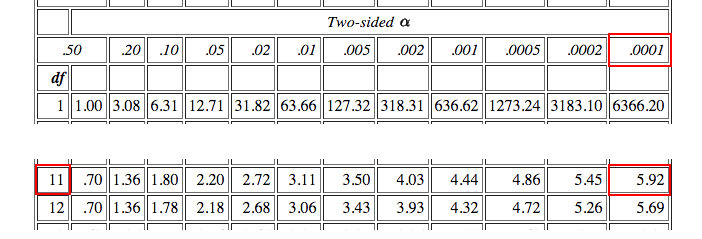
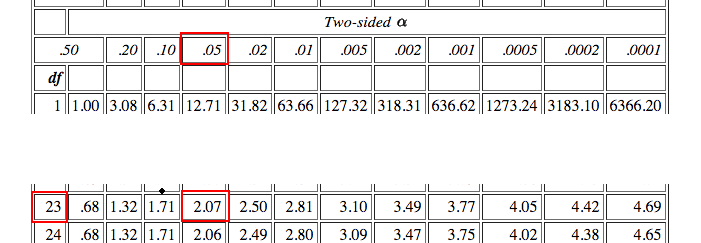
corrected statistics

Changed region(s): [[0.03, 0.0, 0.9586, 0.5272], [0.03, 0.6736, 0.9586, 0.9958]]

diff --git a/P1_stroop_effect_analysis.html b/P1_stroop_effect_analysis.html
@@ -201,11 +201,14 @@ div#notebook {
 There is no significant difference between the population mean of the time it takes to respond in the congruent words condition ($\mu_{c}$) as compared to the incongruent words condition ($\mu_{i}$). Differing times recorded in the sample populations are due to chance.</li>
 </ul>
 $$H_{0} : \mu_{c} = \mu_{i}$$<ul>
-<li><strong>($H_{1}$) - alternative Hypothesis:</strong>
-The population mean ($\mu_{c}$) of the time taken to correctly name the ink colors when the words match the ink colors is significantly shorter than the population mean ($\mu_{i}$) for the incongruent words condition.</li>
+<li><strong>($H_{1}$) - alternative Hypothesis 1:</strong>
+The population mean ($\mu_{c}$) of the time taken to correctly name the ink colors when the words match the ink colors is significantly <strong>shorter</strong> than the population mean ($\mu_{i}$) for the incongruent words condition.</li>
 </ul>
-$$H_{1} : \mu_{c} < \mu_{i}$$<p>Because I am interested to explore whether displaying color names that differ from their colors is related to a <strong>longer</strong> reaction time, I have chosen to use a <strong>directional</strong> alternative hypothesis.</p>
-
+$$H_{1} : \mu_{c} < \mu_{i}$$<ul>
+<li><strong>($H_{2}$) - alternative Hypothesis 2:</strong>
+The population mean ($\mu_{c}$) of the time taken to correctly name the ink colors when the words match the ink colors is significantly <strong>longer</strong> than the population mean ($\mu_{i}$) for the incongruent words condition.</li>
+</ul>
+$$H_{2} : \mu_{c} > \mu_{i}$$
 </div>
 </div>
 </div>
@@ -237,7 +240,7 @@ $$H_{1} : \mu_{c} < \mu_{i}$$<p>Because I am interested to explore whether displ
 </div>
 <div class="cell border-box-sizing code_cell rendered">
 <div class="input">
-<div class="prompt input_prompt">In&nbsp;[3]:</div>
+<div class="prompt input_prompt">In&nbsp;[2]:</div>
 <div class="inner_cell">
     <div class="input_area">
 <div class=" highlight hl-ipython2"><pre><span class="c"># importing the csv file into a pandas dataframe</span>
@@ -258,7 +261,7 @@ $$H_{1} : \mu_{c} < \mu_{i}$$<p>Because I am interested to explore whether displ
 <div class="output">
 
 
-<div class="output_area"><div class="prompt output_prompt">Out[3]:</div>
+<div class="output_area"><div class="prompt output_prompt">Out[2]:</div>
 
 <div class="output_html rendered_html output_subarea output_execute_result">
 <div style="max-height:1000px;max-width:1500px;overflow:auto;">
@@ -319,7 +322,7 @@ $$H_{1} : \mu_{c} < \mu_{i}$$<p>Because I am interested to explore whether displ
 </div>
 <div class="cell border-box-sizing code_cell rendered">
 <div class="input">
-<div class="prompt input_prompt">In&nbsp;[4]:</div>
+<div class="prompt input_prompt">In&nbsp;[3]:</div>
 <div class="inner_cell">
     <div class="input_area">
 <div class=" highlight hl-ipython2"><pre><span class="n">stroop_stats</span> <span class="o">=</span> <span class="n">stroop_data</span><span class="o">.</span><span class="n">describe</span><span class="p">()</span>
@@ -334,7 +337,7 @@ $$H_{1} : \mu_{c} < \mu_{i}$$<p>Because I am interested to explore whether displ
 <div class="output">
 
 
-<div class="output_area"><div class="prompt output_prompt">Out[4]:</div>
+<div class="output_area"><div class="prompt output_prompt">Out[3]:</div>
 
 <div class="output_html rendered_html output_subarea output_execute_result">
 <div style="max-height:1000px;max-width:1500px;overflow:auto;">
@@ -400,7 +403,7 @@ $$H_{1} : \mu_{c} < \mu_{i}$$<p>Because I am interested to explore whether displ
 </div>
 <div class="cell border-box-sizing code_cell rendered">
 <div class="input">
-<div class="prompt input_prompt">In&nbsp;[5]:</div>
+<div class="prompt input_prompt">In&nbsp;[4]:</div>
 <div class="inner_cell">
     <div class="input_area">
 <div class=" highlight hl-ipython2"><pre><span class="c"># adding &#39;range&#39; as a second measure of variability</span>
@@ -422,7 +425,7 @@ $$H_{1} : \mu_{c} < \mu_{i}$$<p>Because I am interested to explore whether displ
 <div class="output">
 
 
-<div class="output_area"><div class="prompt output_prompt">Out[5]:</div>
+<div class="output_area"><div class="prompt output_prompt">Out[4]:</div>
 
 <div class="output_html rendered_html output_subarea output_execute_result">
 <div style="max-height:1000px;max-width:1500px;overflow:auto;">
@@ -514,7 +517,7 @@ $$H_{1} : \mu_{c} < \mu_{i}$$<p>Because I am interested to explore whether displ
 </div>
 <div class="cell border-box-sizing code_cell rendered">
 <div class="input">
-<div class="prompt input_prompt">In&nbsp;[6]:</div>
+<div class="prompt input_prompt">In&nbsp;[5]:</div>
 <div class="inner_cell">
     <div class="input_area">
 <div class=" highlight hl-ipython2"><pre><span class="o">%</span><span class="k">matplotlib</span> inline
@@ -817,7 +820,7 @@ jfwNwzDyEAv+hmEYeYgFf8MwjDzEgr9hGEYeYsHfMAwjD7HgbxiGkYdY8DcMw8hDLPgbhmHkIf8P
 </div>
 <div class="cell border-box-sizing code_cell rendered">
 <div class="input">
-<div class="prompt input_prompt">In&nbsp;[7]:</div>
+<div class="prompt input_prompt">In&nbsp;[6]:</div>
 <div class="inner_cell">
     <div class="input_area">
 <div class=" highlight hl-ipython2"><pre><span class="c"># using the scipy module for performing the two-tailed dependent t-test and for p-value calculations</span>
@@ -861,18 +864,18 @@ p-value for the two-tailed dependent t-test: 0.0000000410
 </div>
 <div class="inner_cell">
 <div class="text_cell_render border-box-sizing rendered_html">
-<p>Since I am using a dependent sample t-test (I have only one sample population that I am testing twice), the <strong>degrees of freedom</strong> calculate as follows:</p>
-$$df = \frac{n}{2}-1$$
+<p>The <strong>degrees of freedom</strong> calculate as follows:</p>
+$$df = n-1$$
 </div>
 </div>
 </div>
 <div class="cell border-box-sizing code_cell rendered">
 <div class="input">
-<div class="prompt input_prompt">In&nbsp;[8]:</div>
+<div class="prompt input_prompt">In&nbsp;[7]:</div>
 <div class="inner_cell">
     <div class="input_area">
 <div class=" highlight hl-ipython2"><pre><span class="n">n</span> <span class="o">=</span> <span class="mi">24</span>
-<span class="n">df</span> <span class="o">=</span> <span class="n">n</span><span class="o">/</span><span class="mi">2</span> <span class="o">-</span> <span class="mi">1</span>
+<span class="n">df</span> <span class="o">=</span> <span class="n">n</span> <span class="o">-</span> <span class="mi">1</span>
 <span class="k">print</span> <span class="s">&#39;degrees of freedom:&#39;</span><span class="p">,</span> <span class="n">df</span>
 </pre></div>
 
@@ -886,7 +889,7 @@ $$df = \frac{n}{2}-1$$
 
 <div class="output_area"><div class="prompt"></div>
 <div class="output_subarea output_stream output_stdout output_text">
-<pre>degrees of freedom: 11
+<pre>degrees of freedom: 23
 </pre>
 </div>
 </div>
@@ -897,7 +900,7 @@ $$df = \frac{n}{2}-1$$
 </div>
 <div class="cell border-box-sizing code_cell rendered">
 <div class="input">
-<div class="prompt input_prompt">In&nbsp;[9]:</div>
+<div class="prompt input_prompt">In&nbsp;[8]:</div>
 <div class="inner_cell">
     <div class="input_area">
 <div class=" highlight hl-ipython2"><pre><span class="k">print</span> <span class="s">&#39;RESULTS: paired t({0}) = {1}, p = {2}&#39;</span><span class="o">.</span><span class="n">format</span><span class="p">(</span><span class="n">df</span><span class="p">,</span> <span class="nb">abs</span><span class="p">(</span><span class="n">t_test_results</span><span class="p">[</span><span class="mi">0</span><span class="p">]),</span> <span class="n">p_value</span><span class="p">)</span>
@@ -913,7 +916,7 @@ $$df = \frac{n}{2}-1$$
 
 <div class="output_area"><div class="prompt"></div>
 <div class="output_subarea output_stream output_stdout output_text">
-<pre>RESULTS: paired t(11) = 8.02070694411, p = 0.0000000410
+<pre>RESULTS: paired t(23) = 8.02070694411, p = 0.0000000410
 </pre>
 </div>
 </div>
@@ -927,10 +930,58 @@ $$df = \frac{n}{2}-1$$
 </div>
 <div class="inner_cell">
 <div class="text_cell_render border-box-sizing rendered_html">
-<p>As we can see from comparing the calculated results of the t-value <a href="http://faculty.washington.edu/heagerty/Books/Biostatistics/TABLES/t-Tables/">this table</a>, the t-value is clearly above the
-<strong>critical t-value</strong> for p = 0.0001. $$8.02 > 5.92$$
-Therefore the differences between the two conditions can be considered (highly) <em>statistically relevant</em>.</p>
-<p>With the t-value being so much lower than the critical value, this means that the probability that eventual differences between the two tested conditions are due to chance, is below 0.01%.</p>
+<p>As we can see from comparing the calculated results of the t-value to <a href="http://www.uwe.ac.uk/hlss/llas/statistics-in-linguistics/Appenix1.pdf">this table</a> (Table A3), the t-value is clearly above the <strong>critical t-value</strong> for the commonly used p-value of 0.05 for the two-tailed dependent t-test.
+$$8.02 > 2.069$$
+Therefore the differences between the two conditions can be considered <em>statistically relevant</em>.</p>
+<p>With the t-value being acutally so much lower than the critical value, this means that the probability that eventual differences between the two tested conditions are due to chance, is below 0.01%, considering the critical t-values present in the table.</p>
+<p>Since the t-value is <strong>negative</strong>:</p>
+
+</div>
+</div>
+</div>
+<div class="cell border-box-sizing code_cell rendered">
+<div class="input">
+<div class="prompt input_prompt">In&nbsp;[9]:</div>
+<div class="inner_cell">
+    <div class="input_area">
+<div class=" highlight hl-ipython2"><pre><span class="n">t_value</span> <span class="o">=</span> <span class="n">t_test_results</span><span class="p">[</span><span class="mi">0</span><span class="p">]</span>
+<span class="k">print</span> <span class="n">t_value</span>
+</pre></div>
+
+</div>
+</div>
+</div>
+
+<div class="output_wrapper">
+<div class="output">
+
+
+<div class="output_area"><div class="prompt"></div>
+<div class="output_subarea output_stream output_stdout output_text">
+<pre>-8.02070694411
+</pre>
+</div>
+</div>
+
+</div>
+</div>
+
+</div>
+<div class="cell border-box-sizing text_cell rendered">
+<div class="prompt input_prompt">
+</div>
+<div class="inner_cell">
+<div class="text_cell_render border-box-sizing rendered_html">
+<p>the significance of the result can be found on the <em>negative</em> side of the normal distribution.</p>
+
+</div>
+</div>
+</div>
+<div class="cell border-box-sizing text_cell rendered">
+<div class="prompt input_prompt">
+</div>
+<div class="inner_cell">
+<div class="text_cell_render border-box-sizing rendered_html">
 <p>The <strong>confidence interval</strong> in this analysis is at 95%. All the results for both of the conditions were taken from the same sample population.</p>
 <hr>
 
@@ -942,7 +993,9 @@ Therefore the differences between the two conditions can be considered (highly) 
 </div>
 <div class="inner_cell">
 <div class="text_cell_render border-box-sizing rendered_html">
-<h3 id="Conclusion">Conclusion<a class="anchor-link" href="#Conclusion">&#182;</a></h3><p>Considering the results of the statistical test, I reject the Null-Hypothesis in favor of the alternative Hypothesis. The analysis of the data leads to the conclusion, that it takes significantly longer to identify the ink colors when the names displayed differ from the name of the ink color (incongruent names condition).</p>
+<h3 id="Conclusion">Conclusion<a class="anchor-link" href="#Conclusion">&#182;</a></h3><p>Considering the results of the statistical test, I reject ($H_{0}$), the Null-Hypothesis, and ($H_{2}$), the second alternative Hypothesis, in favor of ($H_{1}$), the first alternative Hypothesis. 
+This is because the results <em>showed a statistical significance</em>, while pointing to the <em>negative</em> side of the normal distribution.
+Therefore the analysis of the data leads to the conclusion, that it takes <strong>significantly longer</strong> to identify the ink colors when the names displayed differ from the name of the ink color (incongruent names condition).</p>
 <p>This is the result that I expected. However, my (very vague) assumption as to why this is the case seems to be incorrect. I thought that this lag is a result from different types of information being processed in different parts of the brain. Even though this might not be completely wrong, there are actually a few theories as to why the Stroop effect occurs:</p>
 <ul>
 <li><strong>Selective attention</strong>: proposes that recognizing colors requires more attention than reading words.</li>
@@ -997,13 +1050,11 @@ Reading the article, I felt that this is not enough in focus. Because the immine
 <li><a href="http://stattrek.com/statistics/dictionary.aspx?definition=confidence_level">http://stattrek.com/statistics/dictionary.aspx?definition=confidence_level</a></li>
 <li><a href="http://stattrek.com/statistics/dictionary.aspx?definition=Confidence_interval">http://stattrek.com/statistics/dictionary.aspx?definition=Confidence_interval</a></li>
 <li><a href="http://support.minitab.com/en-us/minitab/17/topic-library/basic-statistics-and-graphs/hypothesis-tests/basics/directional-and-nondirectional-hypotheses/">http://support.minitab.com/en-us/minitab/17/topic-library/basic-statistics-and-graphs/hypothesis-tests/basics/directional-and-nondirectional-hypotheses/</a></li>
-<li><a href="https://www.quora.com/How-can-one-interpret-a-negative-t-value-in-a-student-test-p-value-is-very-low">https://www.quora.com/How-can-one-interpret-a-negative-t-value-in-a-student-test-p-value-is-very-low</a></li>
-<li><a href="http://www.csic.cornell.edu/Elrod/t-test/reporting-t-test.html">http://www.csic.cornell.edu/Elrod/t-test/reporting-t-test.html</a></li>
+<li><a href="http://www2.le.ac.uk/offices/ld/resources/numerical-data/variability">http://www2.le.ac.uk/offices/ld/resources/numerical-data/variability</a></li>
 </ul>
 <p><strong>t-tests</strong>:</p>
 <ul>
 <li><a href="http://www.andrewgray.com/teachers/ttests.htm">http://www.andrewgray.com/teachers/ttests.htm</a></li>
-<li><a href="http://www2.le.ac.uk/offices/ld/resources/numerical-data/variability">http://www2.le.ac.uk/offices/ld/resources/numerical-data/variability</a></li>
 <li><a href="https://explorable.com/students-t-test">https://explorable.com/students-t-test</a></li>
 <li><a href="http://docs.scipy.org/doc/scipy/reference/generated/scipy.stats.ttest_rel.html#scipy.stats.ttest_rel">http://docs.scipy.org/doc/scipy/reference/generated/scipy.stats.ttest_rel.html#scipy.stats.ttest_rel</a></li>
 <li><a href="http://stackoverflow.com/questions/13404468/t-test-in-pandas-python">http://stackoverflow.com/questions/13404468/t-test-in-pandas-python</a></li>
@@ -1012,6 +1063,12 @@ Reading the article, I felt that this is not enough in focus. Because the immine
 <li><a href="http://support.minitab.com/en-us/minitab/17/topic-library/basic-statistics-and-graphs/hypothesis-tests/basics/null-and-alternative-hypotheses/">http://support.minitab.com/en-us/minitab/17/topic-library/basic-statistics-and-graphs/hypothesis-tests/basics/null-and-alternative-hypotheses/</a></li>
 <li><a href="http://www.statisticshowto.com/when-to-use-a-t-score-vs-z-score/">http://www.statisticshowto.com/when-to-use-a-t-score-vs-z-score/</a></li>
 <li><a href="https://en.wikipedia.org/wiki/Student%27s_t-test#Unpaired_and_paired_two-sample_t-tests">https://en.wikipedia.org/wiki/Student%27s_t-test#Unpaired_and_paired_two-sample_t-tests</a></li>
+<li><a href="https://www.quora.com/How-can-one-interpret-a-negative-t-value-in-a-student-test-p-value-is-very-low">https://www.quora.com/How-can-one-interpret-a-negative-t-value-in-a-student-test-p-value-is-very-low</a></li>
+<li><a href="http://www.csic.cornell.edu/Elrod/t-test/reporting-t-test.html">http://www.csic.cornell.edu/Elrod/t-test/reporting-t-test.html</a></li>
+<li><a href="http://www.statstutor.ac.uk/resources/uploaded/paired-t-test.pdf">http://www.statstutor.ac.uk/resources/uploaded/paired-t-test.pdf</a></li>
+<li><a href="http://www.psychstat.missouristate.edu/introbook/sbk25.htm">http://www.psychstat.missouristate.edu/introbook/sbk25.htm</a></li>
+<li><a href="http://www.uwe.ac.uk/hlss/llas/statistics-in-linguistics/Appenix1.pdf">http://www.uwe.ac.uk/hlss/llas/statistics-in-linguistics/Appenix1.pdf</a></li>
+<li><a href="http://www.statstutor.ac.uk/resources/uploaded/paired-t-test.pdf">http://www.statstutor.ac.uk/resources/uploaded/paired-t-test.pdf</a></li>
 </ul>
 <p><strong>python</strong>:</p>
 <ul>
@@ -1031,6 +1088,19 @@ Reading the article, I felt that this is not enough in focus. Because the immine
 
 </div>
 </div>
+</div>
+<div class="cell border-box-sizing code_cell rendered">
+<div class="input">
+<div class="prompt input_prompt">In&nbsp;[&nbsp;]:</div>
+<div class="inner_cell">
+    <div class="input_area">
+<div class=" highlight hl-ipython2"><pre> 
+</pre></div>
+
+</div>
+</div>
+</div>
+
 </div>
     </div>
   </div>
